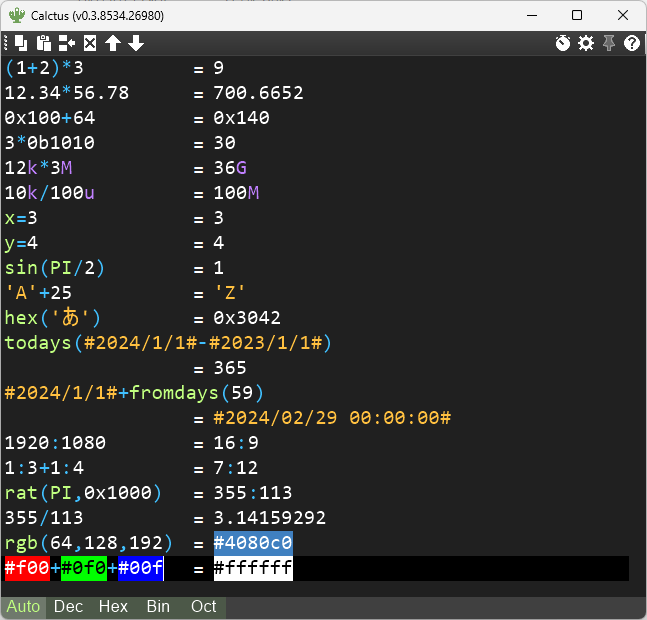
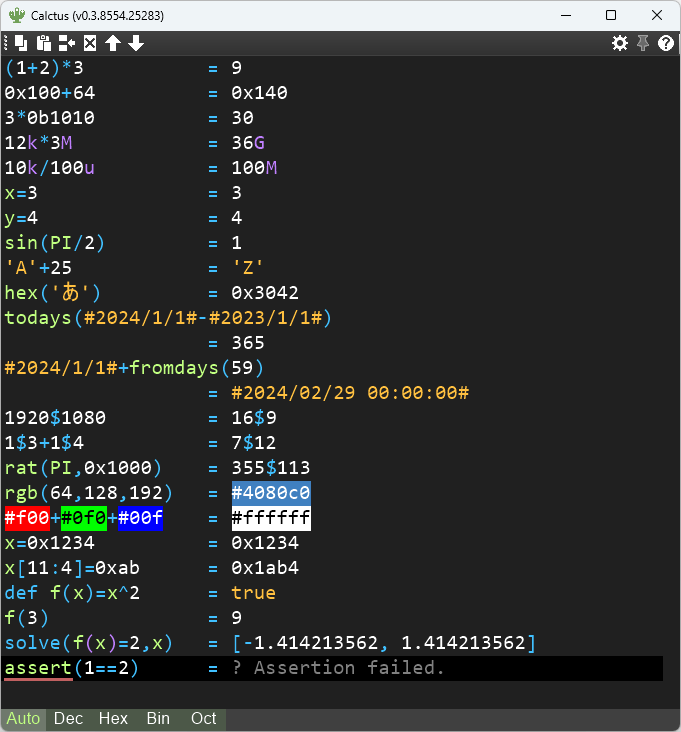
update README

Changed region(s): [[0.0, 0.0, 1.0, 1.0]]

diff --git a/README.md b/README.md
@@ -14,12 +14,12 @@ A calculator for Windows.
 
 ## Overview
 
-- Displays the evaluation value of a formula in text format.
+- Syntax highlighting and auto-completion.
 - Decimal, hexadecimal, and binary numbers can be mixed.
-- The formula history can be referenced with the up key.
-- The formula history can be modified, and if so, the calculation results are regenerated.
-- Some built-in constants and built-in functions.
-- Identifiers/keywords auto-completion.:new:
+- SI prefixes, datetime formats, RGB color representation and several other formats are also available.
+- The formula history can be modified, and the calculation results are immediately regenerated.
+- Built-in constants and built-in functions. Constants and functions can also be user-defined.
+- Numerical solution of equations by Newton's method.
 
 ----
 
@@ -33,13 +33,14 @@ A calculator for Windows.
 |Hexadecimal|`0x7b`, `0x7B`|
 |Octadecimal|`0173`|
 |Binary|`0b1111011`|
-|SI Prefixed:new:|`123k`, `456u`|
-|Binary Prefixed:new:|`123ki`, `456Mi`|
-|Fraction:new:|`2:3`|
+|SI Prefixed|`123k`, `456u`|
+|Binary Prefixed|`123ki`, `456Mi`|
+|Fraction|~~`2:3`~~ → `2$3`|
 |Character|`'A'`|
 |Date Time|`#2022/34/56 12:34:56#`|
 |Web Color|`#123`, `#112233`|
-|Boolean:new:|`true`, `false`|
+|Boolean|`true`, `false`|
+|Array:new:|`[1, 2, 3]`|
 
 ### Operators
 
@@ -55,34 +56,74 @@ A calculator for Windows.
 |XOR|`+\|`|`Int64`|
 |Logical Shift|`<<`, `>>`|`Int64`|
 |Arithmetic Shift|`<<<`, `>>>`|`Int64`|
-|Compare:new:|`>`, `>=`, `<`, `<=`, `==`, `!=`|`Decimal`|
-|Logical NOT:new:|`!`|`Boolean`|
-|Logical AND:new:|`&&`|`Boolean`|
-|Logical OR:new:|`\|\|`|`Boolean`|
+|Compare|`>`, `>=`, `<`, `<=`, `==`, `!=`|`Decimal`|
+|Logical NOT|`!`|`Boolean`|
+|Logical AND|`&&`|`Boolean`|
+|Logical OR|`\|\|`|`Boolean`|
+|Conditional Operator:new:|`? :`|`Boolean`|
+|Bit/Part Select:new:|`[ ]`, `[ : ]`|`Int64`|
+
+### Variables
+
+Variables can be assigned using the equal sign.
+
+```c++
+a = 2 [Return]
+b = 3 [Return]
+a * b [Return] // --> Calctus answers 6.
+```
+
+### Constants
+
+|Symbol|Value|
+|:--|--:|
+|`PI`|`3.1415926535897932384626433833`|
+|`E`|`2.7182818284590452353602874714`|
+|`INT_MIN`|`-2,147,483,648`|
+|`INT_MAX`|`2,147,483,647`|
+|`UINT_MIN`|`0`|
+|`UINT_MAX`|`4,294,967,295`|
+|`LONG_MIN`|`-9,223,372,036,854,775,808`|
+|`LONG_MAX`|`9,223,372,036,854,775,807`|
+|`ULONG_MIN`|`0`|
+|`ULONG_MAX`|`18,446,744,073,709,551,615`|
+|`DECIMAL_MIN`|`-79,228,162,514,264,337,593,543,950,335`|
+|`DECIMAL_MAX`|`79,228,162,514,264,337,593,543,950,335`|
+
+User-defined constants can also be used. 
 
 ### Embedded Functions
 
 |Category|Functions|Precision|
 |:--|:--|:--|
-|Exponential|`sqrt(x)`, `log(x)`, `log2(x)`, `log10(x)`, `clog2(x)`, `clog10(x)`|`Double`|
+|Exponential|`pow(x,y)`, `sqrt(x)`, `log(x)`, `log2(x)`, `log10(x)`, `clog2(x)`, `clog10(x)`|`Double`|
 |Trigonometric|`sin(x)`, `cos(x)`, `tan(x)`,`asin(x)`, `acos(x)`, `atan(x)`, `atan2(y, x)`,`sinh(x)`, `cosh(x)`, `tanh(x)`|`Double`|
 |Round|`floor(x)`, `ceil(x)`, `trunc(x)`, `round(x)`|`Decimal`|
 |Absolute/Sign|`abs(x)`, `sign(x)`|`Decimal`|
 |Max/Min|`max(...)`, `min(...)`|`Decimal`|
-|Sum/Average:new:|`sum(...)`, `ave(...)`, `harmean(...)`, `invsum(...)`, `geomean(...)`|`Decimal`|
-|GCD, LCM:new:|`gcd(a, b)`, `lcm(a, b)`|`Decimal`|
-|Bit/Byte Operations:new:|`swapnib(x)`, `swap2(x)`, `swap4(x)`, `swap8(x)`, `reverse(x,w)`, `reverseb(x)`, `rotatel(x,w)`, `rotater(x,w)`, `count1(x,w)`|`Int64`|
-|Parity/ECC:new:|`xorreduce(x)`, `parity(x)`, `eccwidth(x)`, `eccenc(x,w)`, `eccdec(e,x,w)`|`Int64`|
-|Gray-code:new:|`togray(x)`, `fromgray(x)`|`Int64`|
-|Fractions:new:|~~`frac(x)`~~`rat(x)`, ~~`frac(x,a)`~~`rat(x,a)`, ~~`frac(x,a,b)`~~, `real(x)`|`Decimal`|
-|Representation|`dec(x)`, `hex(x)`, `bin(x)`, `oct(x)`, `char(x)`, `si(x)`:new:, `bi(x)`:new:, `datetime(x)`|`Decimal`|
+|Sum/Average|`sum(...)`, `ave(...)`, `harmean(...)`, `invsum(...)`, `geomean(...)`|`Decimal`|
+|GCD, LCM|`gcd(a, b)`, `lcm(a, b)`|`Decimal`|
+|Bit/Byte Operations|`swapnib(x)`, `swap2(x)`, `swap4(x)`, `swap8(x)`, `reverse(x,w)`, `reverseb(x)`, `rotatel(x,w)`, `rotater(x,w)`, `count1(x,w)`|`Int64`|
+|Parity/ECC|`xorreduce(x)`, `parity(x)`, `eccwidth(x)`, `eccenc(x,w)`, `eccdec(e,x,w)`|`Int64`|
+|Gray-code|`togray(x)`, `fromgray(x)`|`Int64`|
+|Fractions|`rat(x)`, `rat(x,a)`, `real(x)`|`Decimal`|
+|Representation|`dec(x)`, `hex(x)`, `bin(x)`, `oct(x)`, `char(x)`, `si(x)`, `bi(x)`, `datetime(x)`|`Decimal`|
 |Date Time|`now()`, ~~`fromyears(x)`~~, `fromdays(x)`, `fromhours(x)`, `fromminutes(x)`, `fromseconds(x)`, ~~`toyears(x)`~~, `todays(x)`, `tohours(x)`, `tominutes(x)`, `toseconds(x)`|`Double`|
-|Color|`rgb(r,g,b)`, `rgb(rgb)`, `hsv2rgb(h,s,v)`, `hsv2rgb_r(h,s,v)`, `hsv2rgb_g(h,s,v)`, `hsv2rgb_b(h,s,v)`, `rgb2hsv_h(rgb)`, `rgb2hsv_s(rgb)`, `rgb2hsv_v(rgb)`, `hsl2rgb(h,s,l)`, `hsl2rgb_r(h,s,l)`, `hsl2rgb_g(h,s,l)`, `hsl2rgb_b(h,s,l)`, `rgb2hsl_h(rgb)`, `rgb2hsl_s(rgb)`, `rgb2hsl_l(rgb)`, `yuv2rgb(y,u,v)`, `yuv2rgb(yuv)`, `yuv2rgb_r(yuv)`, `yuv2rgb_g(yuv)`, `yuv2rgb_b(yuv)`, `rgb2yuv(r,g,b)`, `rgb2yuv(rgb)`, `rgb2yuv_y(rgb)`, `rgb2yuv_u(rgb)`, `rgb2yuv_v(rgb)`|`Decimal`|
+|Color|`rgb(r,g,b)`, `rgb(rgb)`, `hsv2rgb(h,s,v)`, `rgb2hsv(rgb)`, `hsl2rgb(h,s,l)`, `rgb2hsl(rgb)`, `yuv2rgb(y,u,v)`, `yuv2rgb(yuv)`, `rgb2yuv(r,g,b)`, `rgb2yuv(rgb)`, `rgbto565(rgb)`:new:, `rgbfrom565(rgb565)`:new:, `pack565(r5,g6,b5)`:new:, `unpack565(rgb565)`:new:|`Decimal`|
 |E-series|Rounding to the E-series value: `eXfloor(x)`, `eXceil(x)`, `eXround(x)`<br>Calculation of voltage divider resistance: `eXratiol(x)`, `eXratioh(x)`<br> (`X`=`3`, `6`, `12`, `24`, `48`, `96`, `192`)|`Decimal`|
-|Prime Number:new:|`isprime(x)`, `prime(n)`|`Int64`|
-|Random:new:|`rand()`, `rand(min, max)`, `rand32()`, `rand64()`|`Decimal`, `Int64`|
-|Assertion:new:|`assert(expr)`|`Boolean`|
-|Special:new:|`poll(x)`, `alarm(x)`|any|
+|Prime Number|`isprime(x)`, `prime(n)`, `primefact(x)`:new:|`Int64`|
+|Random|`rand()`, `rand(min,max)`, `rand32()`, `rand64()`|`Decimal`, `Int64`|
+|Assertion|`assert(expr)`|`Boolean`|
+|~~Special~~|~~`poll(x)`, `alarm(x)`~~|~~any~~|
+
+### User Defined Function :new:
+
+User functions can be defined using the `def` keyword.
+
+```c++
+def f(x) = x^2
+f(x) // --> Calctus answers 9.
+```
 
 ### External Script Call as Functions
 
@@ -105,37 +146,61 @@ Function arguments are passed to the script as command line arguments, and the s
 
 If you wish to use a scripting language other than Python, please register the extension and interpreter in the `Scripts` tab of the Settings dialog.
 
-### Constants
+### Solve Function (Newton-Raphson method) :new:
 
-|Symbol|Value|
-|:--|--:|
-|`PI`|`3.1415926535897932384626433833`|
-|`E`|`2.7182818284590452353602874714`|
-|`INT_MIN`|`-2,147,483,648`|
-|`INT_MAX`|`2,147,483,647`|
-|`UINT_MIN`|`0`|
-|`UINT_MAX`|`4,294,967,295`|
-|`LONG_MIN`|`-9,223,372,036,854,775,808`|
-|`LONG_MAX`|`9,223,372,036,854,775,807`|
-|`ULONG_MIN`|`0`|
-|`ULONG_MAX`|`18,446,744,073,709,551,615`|
-|`DECIMAL_MIN`|`-79,228,162,514,264,337,593,543,950,335`|
-|`DECIMAL_MAX`|`79,228,162,514,264,337,593,543,950,335`|
+Use the `solve` keyword to solve equations numerically by Newton's method.
 
-User-defined constants can also be used. :new:
-
-### Variables
-
-Variables can be assigned using the equal sign.
-
-```
-a = 2 [Return]
-b = 3 [Return]
-a * b [Return]
-// --> Calctus answers 6.
+```c++
+solve(x^2=2,x) // --> Calctus answers [-1.414213562, 1.414213562].
 ```
 
-### Auto-Completion:new:
+By default, the Newton's method is applied with an initial value of 101 values between -10 and 10. Therefore, if the solution is concentrated in a narrow range or exists outside the range of -10 to 10, the expected results will not be obtained.
+
+In such cases, the 3rd argument can be given an initial value.
+
+```c++
+solve(sin(x),x,314) // --> Calctus answers 314.159265359.
+```
+
+That initial value can also be given as an array.
+
+```c++
+solve(sin(x),x,[-314,314]) // --> Calctus answers [-314.159265359, 314.159265359].
+```
+
+By providing the 3rd and 4th arguments at the same time, a range of initial values can be specified. In this case, 101 values between these ranges are used as initial values.
+
+```c++
+solve(sin(x),x,-5,5) // --> Calctus answers [-3.141592654, 0, 3.141592654].
+```
+
+:warning: Note that the solution obtained using the `solve` keyword is an approximation and does not necessarily correspond to the analytical solution.
+
+### Part-selection :new:
+
+Verilog-style part selection is available for arrays and scalar values.
+
+```c++
+array=[1,2,3]
+array[1]   // --> Calctus answers 2.
+array[1]=5 // --> Calctus answers [1, 5, 3].
+```
+
+```c++
+x=0x1234
+x[11:4]      // --> Calctus answers 0x23.
+x[11:4]=0xab // --> Calctus answers 0x1ab4.
+```
+
+### Omission of Opening Parentheses :new:
+
+The opening parenthesis at the beginning of a line can be omitted.
+
+```c++
+1+2)*3 // --> Calctus answers 9.
+```
+
+### Auto-Completion
 
 ![](img/auto_completion.gif)
 
@@ -143,7 +208,7 @@ a * b [Return]
 
 ![](img/assertion.gif)
 
-### RPN Operations:new:
+### RPN Operations
 
 If only an operator is entered, the expression is "popped" from the history and combined with that operator.
 
@@ -160,27 +225,27 @@ If you use RPN operation, it is recommended to turn off the automatic input of "
 
 ![](img/rpn_ops.gif)
 
-### Timer:new:
+### ~~Timer~~
 
-![](img/timer.gif)
+The timer function has been eliminated.
 
 ### Keyboard Shortcut
 
 |Key|Function|
 |:--|:--|
-|`Shift` + `Return`|Insert|
+|`Shift` + `Return`|Insert a new line before current expression|
 |`Shift` + `Delete`|Delete current expression|
 |`Ctrl` + `X`|Cut|
 |`Ctrl` + `C`|Copy|
 |`Ctrl` + `Shift` + `C`|Copy all expressions and answers|
-|`Ctrl` + `V`|Copy|
-|`Ctrl` + `Shift` + `V`:new:|Multiline Paste|
-|`Ctrl` + `Shift` + `N`:new:|Insert current time|
+|`Ctrl` + `V`|Paste (accepts multiple lines)|
+|`Ctrl` + `Shift` + `V`|Paste with formatting|
+|`Ctrl` + `Shift` + `N`|Insert current time|
 |`Ctrl` + `Shift` + `Del`|Delete all expressions|
 |`Ctrl` + `Shift` + `Up`|Item move up|
 |`Ctrl` + `Shift` + `Down`|Item move down|
-|`F1`:new:|Help|
-|`F5`:new:|Recalculation|
+|`F1`|Help|
+|`F5`|Recalculation|
 |`F8`|Radix Mode = Auto|
 |`F9`|Radix Mode = Dec|
 |`F10`|Radix Mode = Hex|
